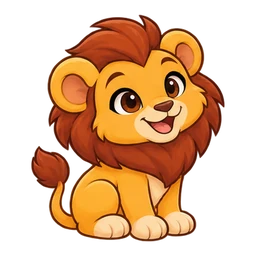
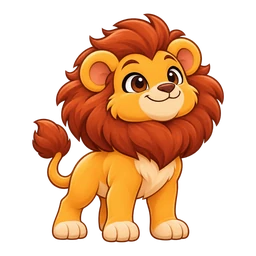
Papağanın parmak tüneğini ve hayvan duruşlarını çiz

diff --git a/src/avatar/Avatar.tsx b/src/avatar/Avatar.tsx
@@ -4,7 +4,7 @@ import type { Equipped } from '../data/types'
 import { BG } from './bg'
 import { ITEMS, MANIFEST, SPECIES, fx, type CatalogItem, type ItemSlot, type Raw, type Species } from './catalog'
 import { compose, composed, type Part } from './render'
-import { cradleFor, cradleParts, hugSleeves, type CradleShape } from './companionCradle'
+import { cradleFor, cradleParts, hugSleeves, parrotGripSleeve, type CradleShape } from './companionCradle'
 
 export type Mood = 'idle' | 'happy'
 export interface Look { x: number; y: number } // -1..1
@@ -245,13 +245,17 @@ const POSES: Record<string, { x: number; bottom: number; width: number; kid: num
   head: { x: 0.50, bottom: 0.31, width: 0.30, kid: 0, gaze: 0, ey: -1 },
 }
 
-// Kumaşa basan pençe, kuş çiziminin 256 px tuvalindeki konumuyla sabitlenir.
-const BIRD_PERCH: Partial<Record<string, { x: number; y: number; width: number; faceChild?: boolean }>> = {
+// Omza değen pençe veya pati, hayvanın 256 px tuvalindeki konumuyla sabitlenir.
+const SHOULDER_CONTACT: Partial<Record<string, { x: number; y: number; width: number; angle?: number; faceChild?: boolean }>> = {
   owl: { x: 120, y: 230, width: 0.30, faceChild: true },
   parrot: { x: 91, y: 224, width: 0.30 },
   dove: { x: 148, y: 229, width: 0.29, faceChild: true },
   chick: { x: 104, y: 232, width: 0.26, faceChild: true },
   eagle: { x: 142, y: 233, width: 0.32, faceChild: true },
+  lion: { x: 117, y: 239, width: 0.27, angle: 7 },
+  tiger: { x: 120, y: 241, width: 0.27, angle: 8 },
+  leopard: { x: 211, y: 239, width: 0.31, angle: 8 },
+  wolf: { x: 74, y: 239, width: 0.27, angle: 8 },
 }
 
 // 512 px kıyafet katmanında omuz çizgisi (x=368). Kapüşon ve zırh daha yukarıda.
@@ -273,6 +277,7 @@ export function Avatar({ animal, equipped, seed, size = 96, bounce = false, look
   const pose = p ? poseOf(eq, p.id) : 'side'
   const pz = POSES[pose]
   const cradle = p && pose === 'hug' ? cradleFor(p.id) : undefined
+  const fingerPerch = p?.id === 'parrot' && pose === 'hug' ? V?.parrotGrip : undefined
   const live = !cradle && (alive ?? size >= 100)
   const dpr = typeof devicePixelRatio === 'number' ? Math.min(devicePixelRatio, 3) : 2
   const px = (frame ? 1.6 : 1) * size * dpr
@@ -284,10 +289,14 @@ export function Avatar({ animal, equipped, seed, size = 96, bounce = false, look
   const uriIris = useComp(split ? L.iris : [], px)
   const uriUp = useComp(split ? L.upper : [], px)
   const uriBlink = useComp(live ? L.blink : [], px)
-  const hands = !cradle && p && pose === 'hug' && V?.hands
+  const hands = !cradle && !fingerPerch && p && pose === 'hug' && V?.hands
     ? [{ src: V.hands.layer, mask: V.hands.mask, ref: V.hands.ref, color: L.skin }, ...hugSleeves(L.garment)]
     : []
   const uriHands = useComp(hands, px)
+  const uriGrip = useComp(fingerPerch ? [
+    { src: fingerPerch.layer, mask: fingerPerch.mask, ref: fingerPerch.ref, color: L.skin },
+    ...parrotGripSleeve(L.garment),
+  ] : [], px)
   const root = useRef<HTMLDivElement>(null)
   const [tap, setTap] = useState(0)
   const timer = useRef<number | undefined>(undefined)
@@ -364,7 +373,7 @@ export function Avatar({ animal, equipped, seed, size = 96, bounce = false, look
     const m = `url(${import.meta.env?.BASE_URL ?? '/'}av/${V.eyes.open})`
     eyeBox.maskImage = m; eyeBox.WebkitMaskImage = m; eyeBox.maskSize = '100% 100%'; eyeBox.WebkitMaskSize = '100% 100%'
   }
-  const perch = p && pose === 'shoulder' ? BIRD_PERCH[p.id] : undefined
+  const perch = p && pose === 'shoulder' ? SHOULDER_CONTACT[p.id] : undefined
   const perchX = kidLeft + 368 / 512 * scale
   const perchY = kidTop + ((SHOULDER_Y[currentId(eq, 'clothes', sd) ?? ''] ?? 364) + 3) / 512 * scale
   const petWidth = perch?.width ?? (p?.id === 'giraffe' ? 0.51 : pz.width)
@@ -376,13 +385,13 @@ export function Avatar({ animal, equipped, seed, size = 96, bounce = false, look
     top: (perchY - perch.y / 256 * petWidth) * size,
     width: petWidth * size,
     transformOrigin: `${perch.x / 2.56}% ${perch.y / 2.56}%`,
-    transform: `rotate(12deg)${perch.faceChild ? ' scaleX(-1)' : ''}`,
+    transform: `rotate(${perch.angle ?? 12}deg)${perch.faceChild ? ' scaleX(-1)' : ''}`,
   } : {
     left: (petX - petWidth / 2) * size, top: (pz.bottom - petWidth * 0.95) * size, width: petWidth * size,
     ...(peek ? { transform: 'rotate(24deg)', transformOrigin: '50% 95%' } : {}),
   }
   const petImg = p && (
-    <img key={'pet' + (tap ? 'x' + tap : '')} className={`av-pet pose-${pose}${perch ? ' av-perched-bird' : ''}`}
+    <img key={'pet' + (tap ? 'x' + tap : '')} className={`av-pet pose-${pose}${perch ? ' av-perched' : ''}`}
       src={fx(p.id)} alt={p.name} title={p.name} draggable={false} style={petStyle} />
   )
   const cls = ['avatar', frame ? '' : 'bare', bounce ? 'bounce' : '', mood === 'happy' ? 'happy' : '', live ? 'alive' : '', tap ? 'tap' : '', p ? 'with-pet' : '', p && `scene-${pose}`].filter(Boolean).join(' ')
@@ -417,7 +426,9 @@ export function Avatar({ animal, equipped, seed, size = 96, bounce = false, look
               </div>
             </div>
             {perch && <span className="av-perch-shadow" aria-hidden="true" style={{ left: perchX * size, top: perchY * size }} />}
-            {pose !== 'peek' && petImg}
+            {pose !== 'peek' && !uriGrip && petImg}
+            {uriGrip && <img className="av-kid av-hands" src={uriGrip} alt="Parmağa tutunan papağan" draggable={false}
+              style={{ left: 0, top: 0, width: '100%' }} />}
             {uriHands && <img className="av-kid av-hands" src={uriHands} alt="" draggable={false}
               style={{ left: size * 0.10, top: size * 0.10, width: size * 0.90 }} />}
           </div>

diff --git a/src/avatar/companionCradle.ts b/src/avatar/companionCradle.ts
@@ -92,7 +92,7 @@ const FABRIC: Partial<Record<string, Box>> = {
   'clothes/winter_coat.webp': [0, 0, 512, 512],
 }
 
-function sleeveParts(sleeves: [Sleeve, Sleeve], garment: Part | null): Part[] {
+function sleeveParts(sleeves: Sleeve[], garment: Part | null): Part[] {
   const crop = garment && FABRIC[garment.src]
   if (!garment || !crop) return []
   const cloth: Part = garment.src === 'clothes/winter_coat.webp'
@@ -111,6 +111,14 @@ const HUG_WRISTS: [Sleeve, Sleeve] = [
 ]
 
 export const hugSleeves = (garment: Part | null) => sleeveParts(HUG_WRISTS, garment)
+
+// Papağan katmanında bilek sağ alt köşeye doğru uzanır.
+const PARROT_WRIST: Sleeve = {
+  clip: 'M477 613 Q504 622 531 607 L565 640 H498 Q492 625 477 613 Z',
+  center: [520, 625], width: 88, length: 60, angle: 141,
+}
+
+export const parrotGripSleeve = (garment: Part | null) => sleeveParts([PARROT_WRIST], garment)
 
 function atHead(part: Part): Part {
   const scale = 0.95

diff --git a/src/index.css b/src/index.css
@@ -389,7 +389,7 @@ label.check input { width: 20px; height: 20px; accent-color: var(--purple); }
 .av-pet.pose-peek { z-index: 0; filter: none; animation: none; }
 .av-pet.pose-head { z-index: 2; animation: none; filter: drop-shadow(0 1px 1px #3a241e65); }
 .av-pet.pose-hug, .av-pet.pose-shoulder { animation: none; filter: drop-shadow(1px 2px 2px #39241b7a); }
-.av-pet.av-perched-bird { filter: none; }
+.av-pet.av-perched { filter: none; }
 .av-perch-shadow {
   position: absolute; width: 9%; height: 2.4%; transform: translate(-78%, -18%) rotate(20deg);
   background: radial-gradient(ellipse, #39241b80, transparent 72%); pointer-events: none;

diff --git a/src/avatar/catalog.ts b/src/avatar/catalog.ts
@@ -132,6 +132,7 @@ export const MANIFEST = M as unknown as {
     blink: { layer: string; mask: string; ref: number }
     eyes?: { layer: string; open: string; iris: { layer: string; mask: string; ref: number }; ownEyes: string[] }
     hands?: { layer: string; mask: string; ref: number }
+    parrotGrip?: { layer: string; mask: string; ref: number }
     hairBackDx?: Record<string, number>
   }
 }

diff --git a/gelistirme/avatar_uretim/paketle.py b/gelistirme/avatar_uretim/paketle.py
@@ -290,22 +290,27 @@ def package_phase3(manifest: dict) -> None:
 def package_phase4(manifest: dict) -> None:
     from faz4_katalog import species
 
-    pets = species()
-    for stem, _, _ in pets:
-        path = SOURCE / "pet" / f"{stem}.png"
+    items = []
+    for stem, name, price in species():
+        replacement = SOURCE / "pet_poz" / f"{stem}.png"
+        path = replacement if replacement.is_file() else SOURCE / "pet" / f"{stem}.png"
         with Image.open(path) as master:
             if master.size != (512, 512) or master.mode != "RGBA":
                 raise ValueError(f"Expected a 512×512 RGBA master: {path}")
             if master.getchannel("A").getextrema() != (0, 255):
                 raise ValueError(f"Missing transparency or opaque artwork: {path}")
-
-    items = []
-    for stem, name, price in pets:
-        with Image.open(SOURCE / "pet" / f"{stem}.png") as master:
             layer = master.resize((256, 256), Image.Resampling.LANCZOS)
         relative, _, _ = _save_layer(f"pet/{stem}.webp", layer)
         items.append({"id": f"pet_{stem}", "name": name, "price": price, "image": relative})
     manifest.setdefault("slots", {}).setdefault("pet", {})["items"] = items
+
+    grip = SOURCE / "pet_poz" / "parrot_grip.png"
+    layer, mask, ref = _save_layer(
+        "pose/parrot-grip.webp",
+        _rgba_at_512(grip),
+        _mask_at_512(grip.with_name("parrot_grip_mask.png")),
+    )
+    manifest.setdefault("variants", {})["parrotGrip"] = {"layer": layer, "mask": mask, "ref": ref}
 
 
 def main() -> None:

diff --git a/gelistirme/avatar_uretim/NOTLAR.md b/gelistirme/avatar_uretim/NOTLAR.md
@@ -283,3 +283,16 @@ Kep, balıkçı, kovboy, korsan ve sihirbaz şapkalarıyla Afro, kıvırcık, to
 - `clothes/winter-coat-sleeve.webp` için `clothes/winter_coat.webp` çizgi ve kumaş referansı, `pose/dog-cradle.webp` boyama stili referansı. İstem, kol sınırına kırpılabilecek orta gri yumuşak kapitone kumaş, üç-dört geniş kavisli dikiş kanalı, kapama ve fermuar içermeyen opak orta bölge.
 - `clothes/dinosaur-card.webp` için `clothes/dinosaur.webp` düzenleme hedefi, `clothes/superhero.webp` stil referansı. İstem, 75 px kartta omuzlara inik kapüşonun dışına taşan iri koyu yeşil plakalar ve gövdeden daha güçlü ayrılan kapüşon. Önden görünüm ve açık yeşil karın paneli korunur.
 - `clothes/superhero-card.webp` için `clothes/superhero.webp` düzenleme hedefi, `clothes/dinosaur.webp` stil referansı. İstem, 75 px kartta kolların yanına doğru açılan geniş bordo pelerin panelleri ve büyük, basit altın baklava toka. Kömür gri gövde ve önden açık yaka korunur.
+
+## Hayvan duruşları ve papağan teması
+
+Yerleşik ImageGen'de her hayvanın mevcut `public/av/pet/` WebP'si düzenleme hedefi, köpek WebP'si çizgi ve boyama referansı olarak verildi. Tam gövde, şeffaf alfa, sıcak ince kontur ve küçük boyda okunur siluet istendi.
+
+- **Aslan** güçlü yuvarlak yelesiyle dört pati üzerinde dik durur ve ağzı kapalı gülümser.
+- **Kaplan** ön patilerini uzatarak öne çömelir, iri çizgili kuyruğunu kaldırır ve ağzı açık gülümser.
+- **Leopar** ön patileri çapraz uzanır, yana bakar ve kuyruğunu kanca biçiminde kıvırır. Halkalı benekleri büyütüldü.
+- **Kurt** oturur, gözlerini kapatır ve başını yana ve yukarı kaldırarak ulur.
+
+Dört çizimin 512 px ana kopyası `kaynak/pet_poz/` altında. Mevcut faz 4 kırpma yordamıyla en uzun kenar 460 px, taban çizgisi y=486 olacak şekilde hizalandı. `paketle.py --phase 4`, varsa bu ana kopyaları seçer ve mevcut katalog yollarına 256 px WebP yazar.
+
+Papağan `pet/parrot.webp` ve `pose/dog-cradle.webp` referanslarından ayrı çizildi. İstemde soldaki tünek ucuna bakan kırmızı mavi papağanın iki ayağının da sola uzatılan işaret parmağına sarılması, elin soğuk gri, ayakların sıcak kahverengi çizilmesi istendi. Birlikte çizildikleri için pençe ve parmak birbirini doğru sırada örtüyor. Birleşik çizim alfa sınırına kırpıldı ve 210 px enle 512 px tuvalde x=242'ye, bilek alt kenarda bitişecek biçimde yerleştirildi. Sağ alttaki nötr gri el piksellerinden ten maskesi çıkarıldı. Paketleme `pose/parrot-grip.webp` ve maskesini üretir, kodlanmış görselden boyama referansını hesaplar. Tünek yalnız kucak pozunda kullanılır. Omuz temas noktaları 256 px hayvan tuvalinde pati veya pençenin kumaşa değdiği yere göre belirlenir.
